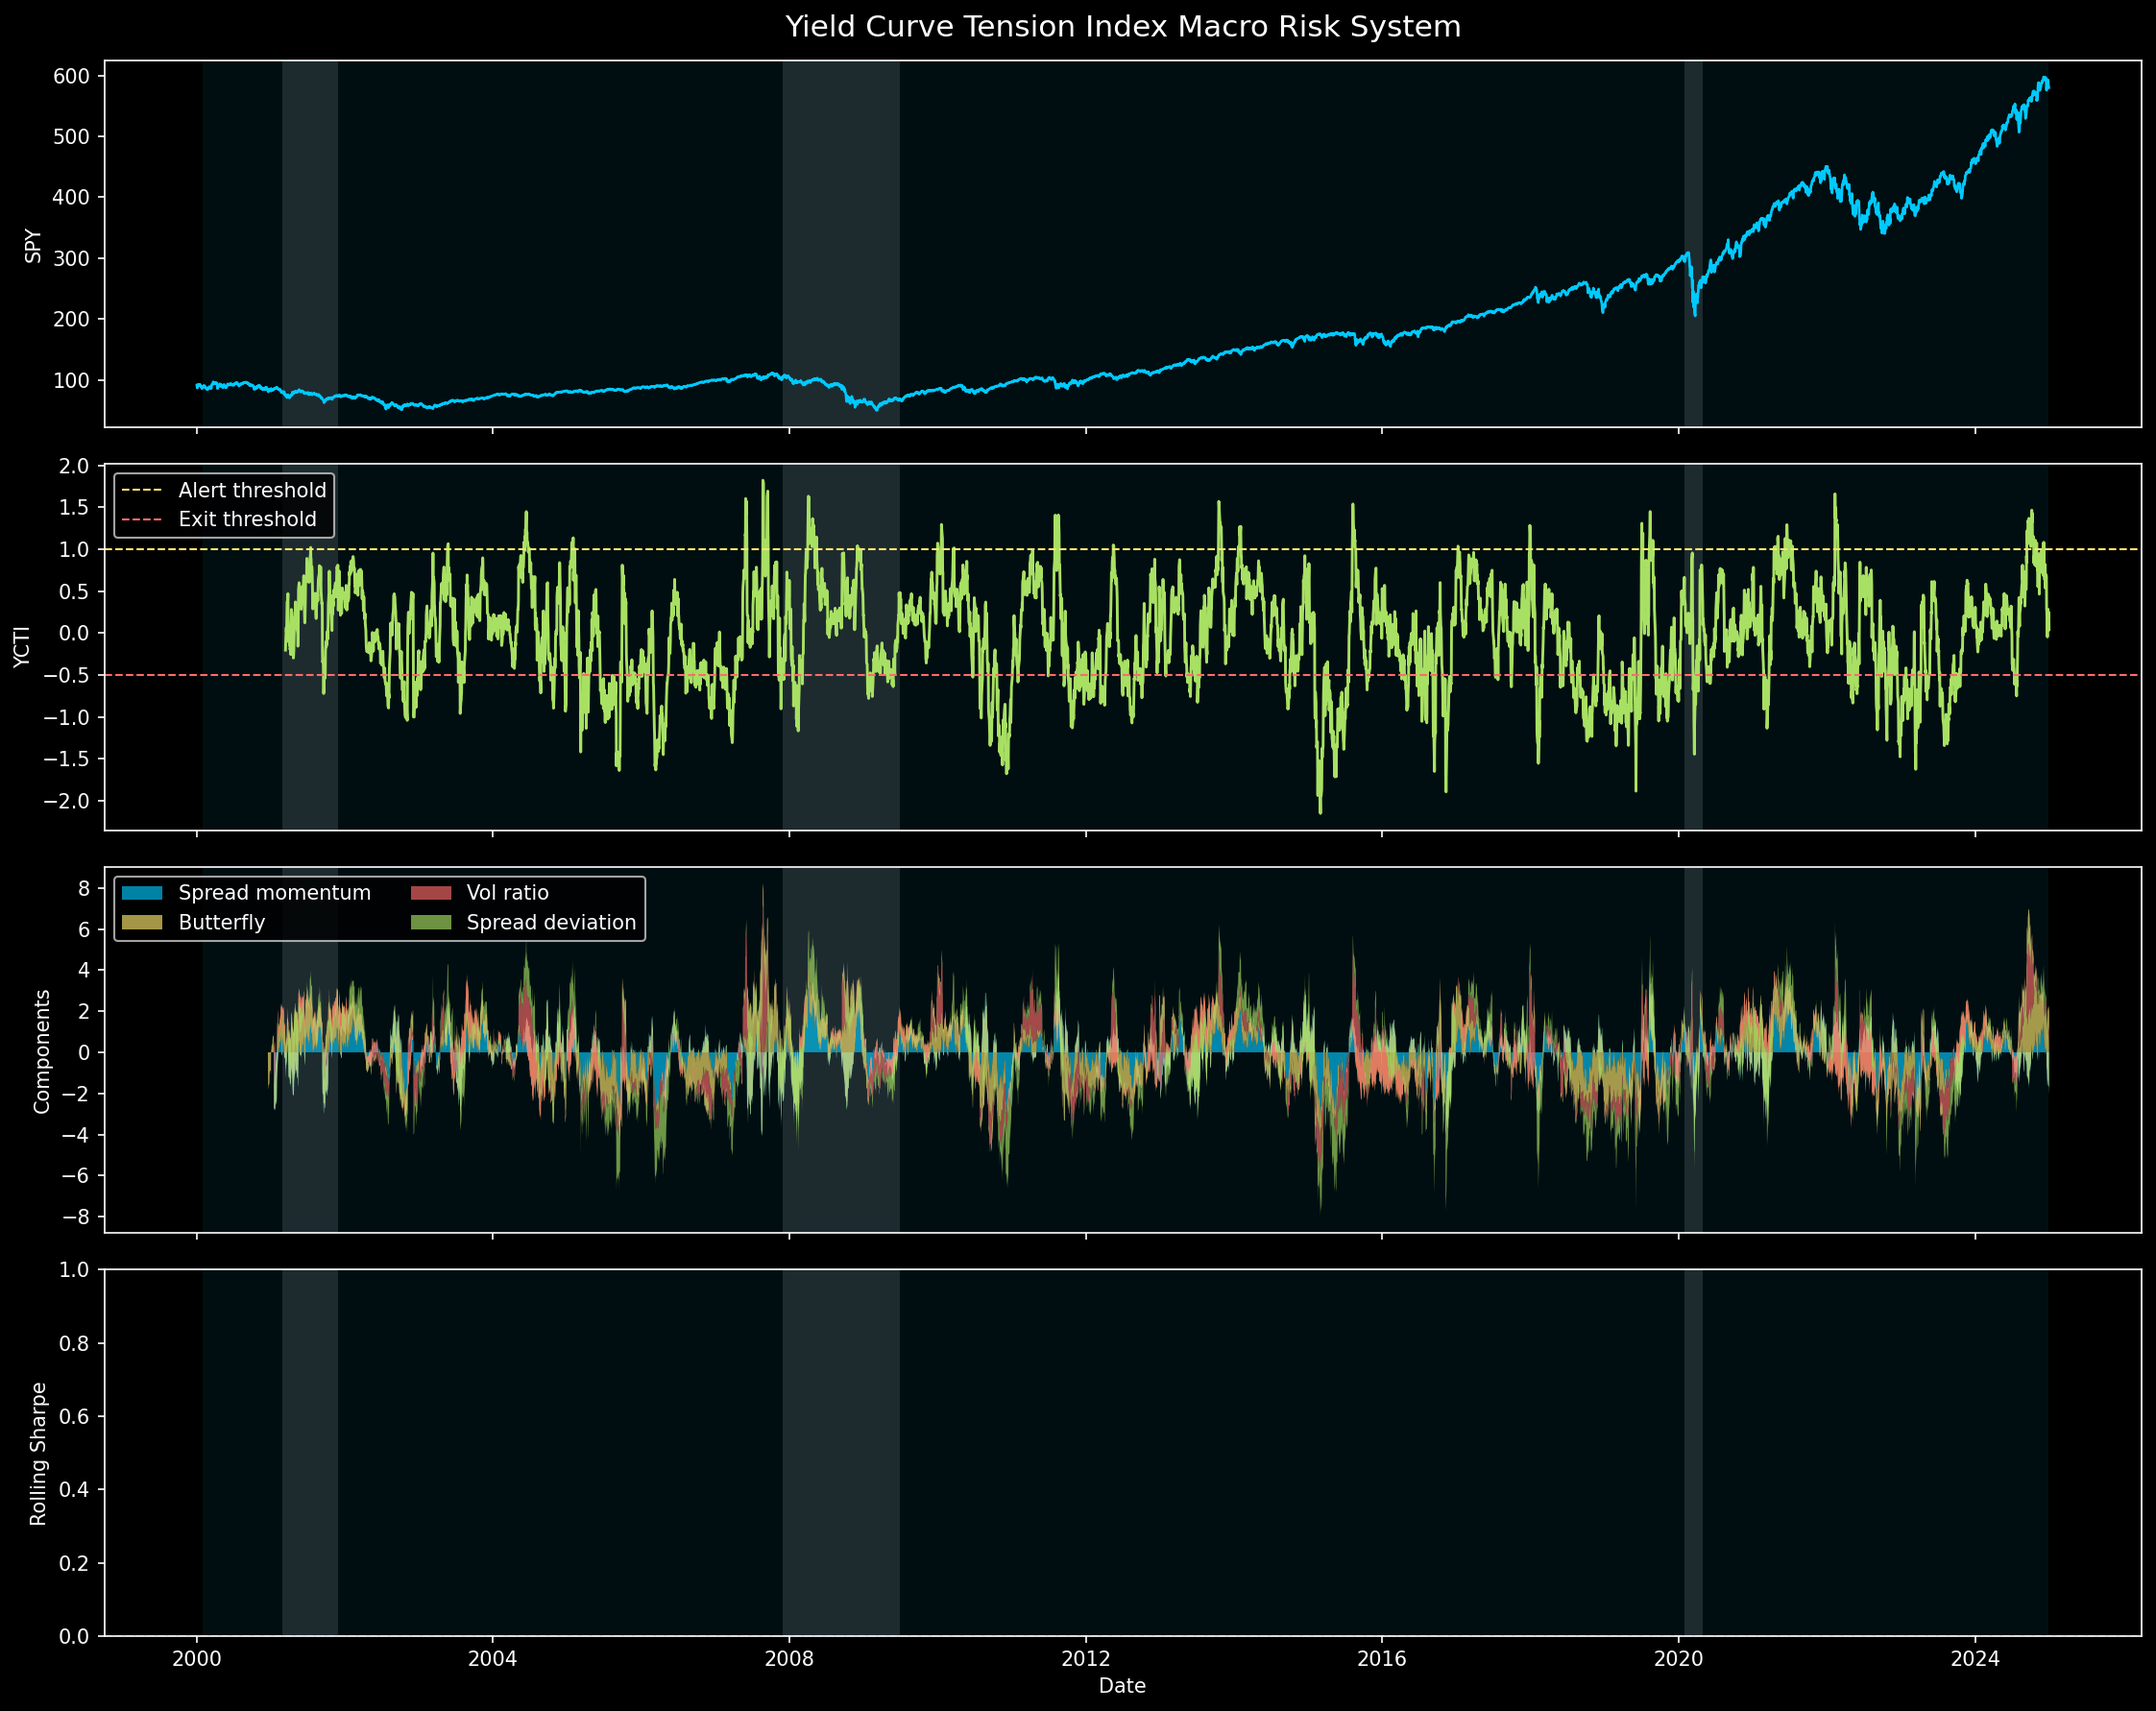
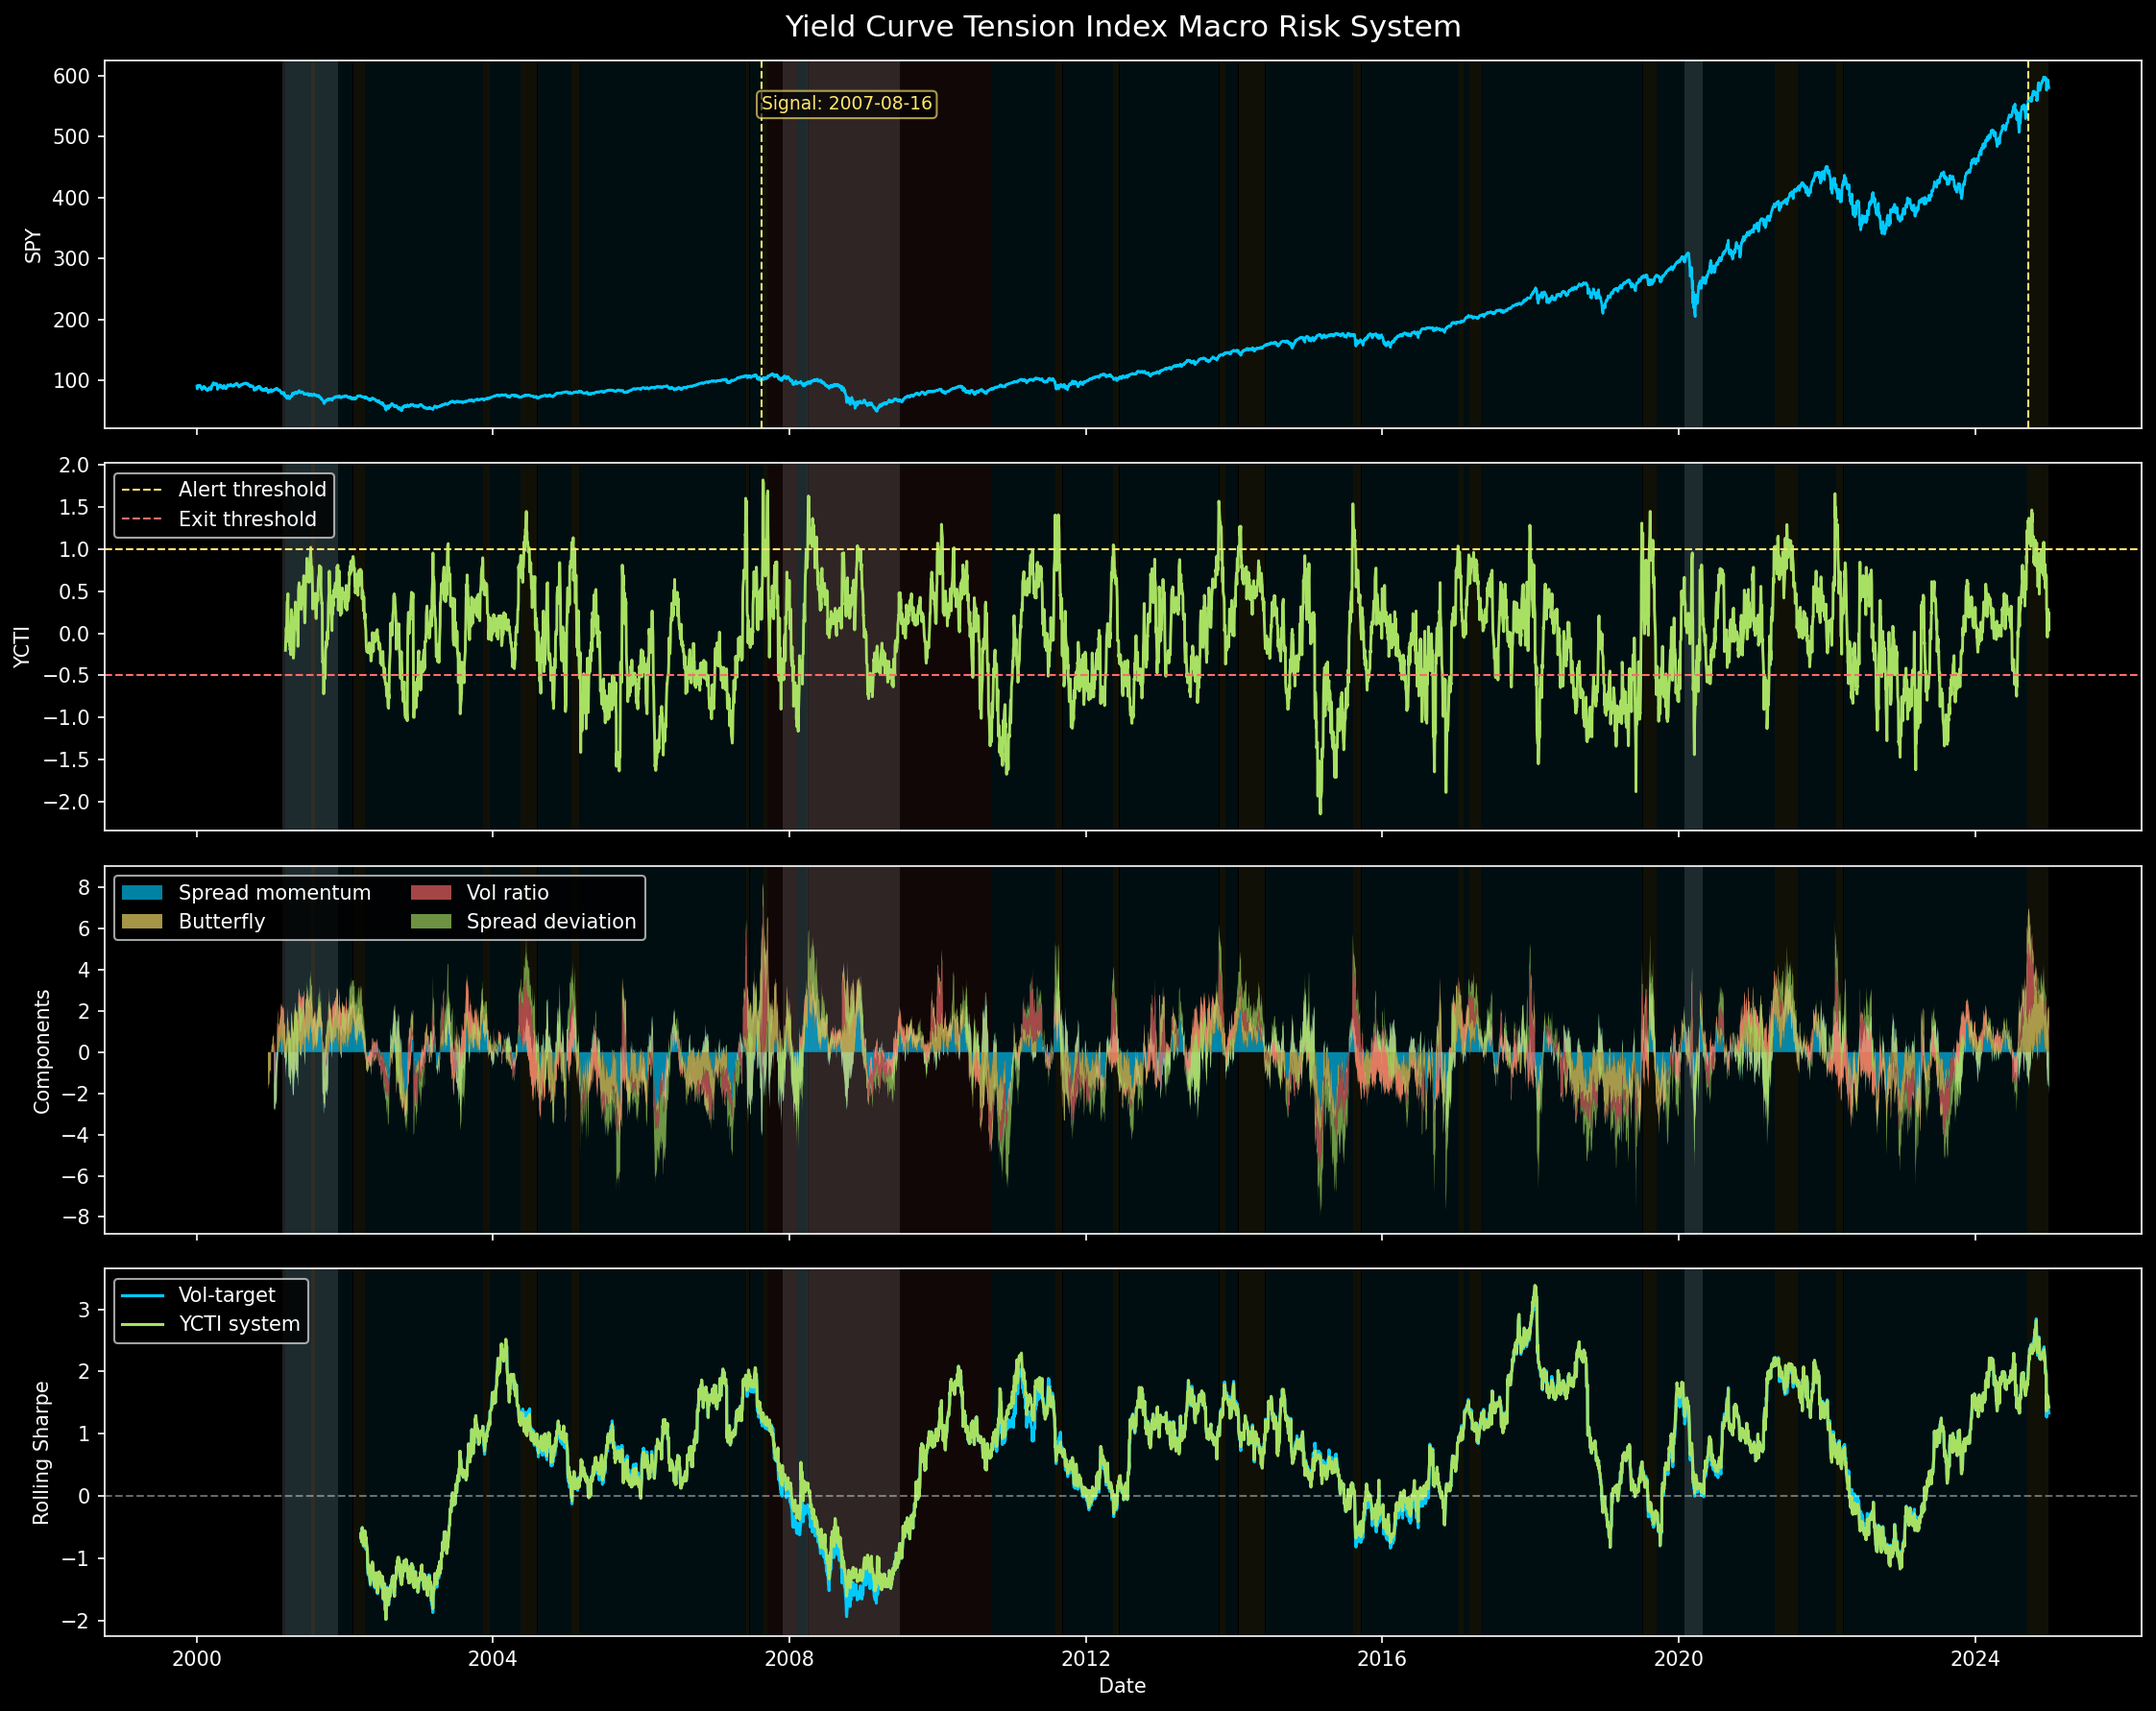
fix YCTI figure rendering in notebook and output

diff --git a/viz.py b/viz.py
@@ -504,9 +504,27 @@ def plot_ycti_signal(ycti_df, features_df, spy_df, signals_df, recession_bands=N
     axes[0].plot(spy_df.index, spy_df["close"], color=COLORS[0], linewidth=1.3)
     axes[0].set_ylabel("SPY")
     axes[0].set_title("Yield Curve Tension Index Macro Risk System", fontsize=15, pad=12)
-    if not signals_df.empty and "date" in signals_df:
-        for date in pd.to_datetime(signals_df["date"]):
+    signal_dates = pd.Index([])
+    if not signals_df.empty:
+        if "date" in signals_df.columns:
+            signal_dates = pd.to_datetime(signals_df["date"])
+        elif isinstance(signals_df.index, pd.DatetimeIndex):
+            signal_dates = pd.to_datetime(signals_df.index)
+
+    if len(signal_dates) > 0:
+        for date in signal_dates:
             axes[0].axvline(date, color=COLORS[1], linestyle="--", linewidth=1)
+        first_signal = signal_dates[0]
+        axes[0].text(
+            first_signal,
+            spy_df["close"].max() * 0.95,
+            f"Signal: {first_signal.date()}",
+            color=COLORS[1],
+            fontsize=9,
+            ha="left",
+            va="top",
+            bbox={"facecolor": "black", "edgecolor": COLORS[1], "alpha": 0.65, "boxstyle": "round,pad=0.25"},
+        )
 
     axes[1].plot(ycti_df.index, ycti_df["ycti"], color=COLORS[3], linewidth=1.4)
     axes[1].axhline(1.0, color=COLORS[1], linestyle="--", linewidth=1, label="Alert threshold")
